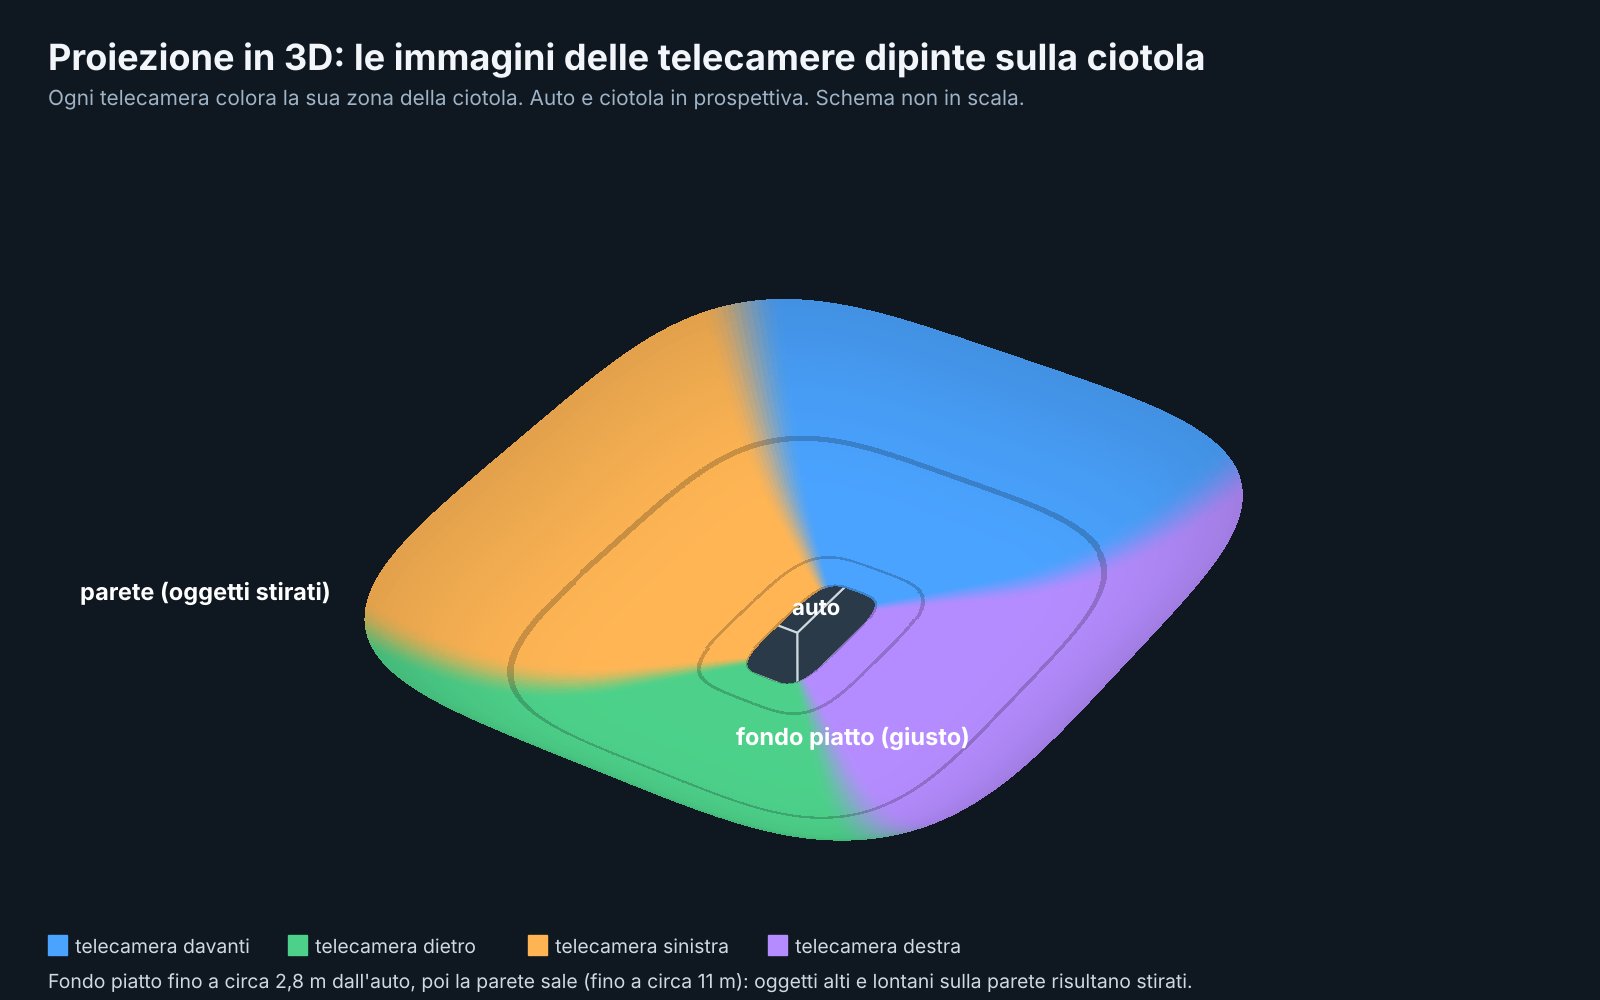
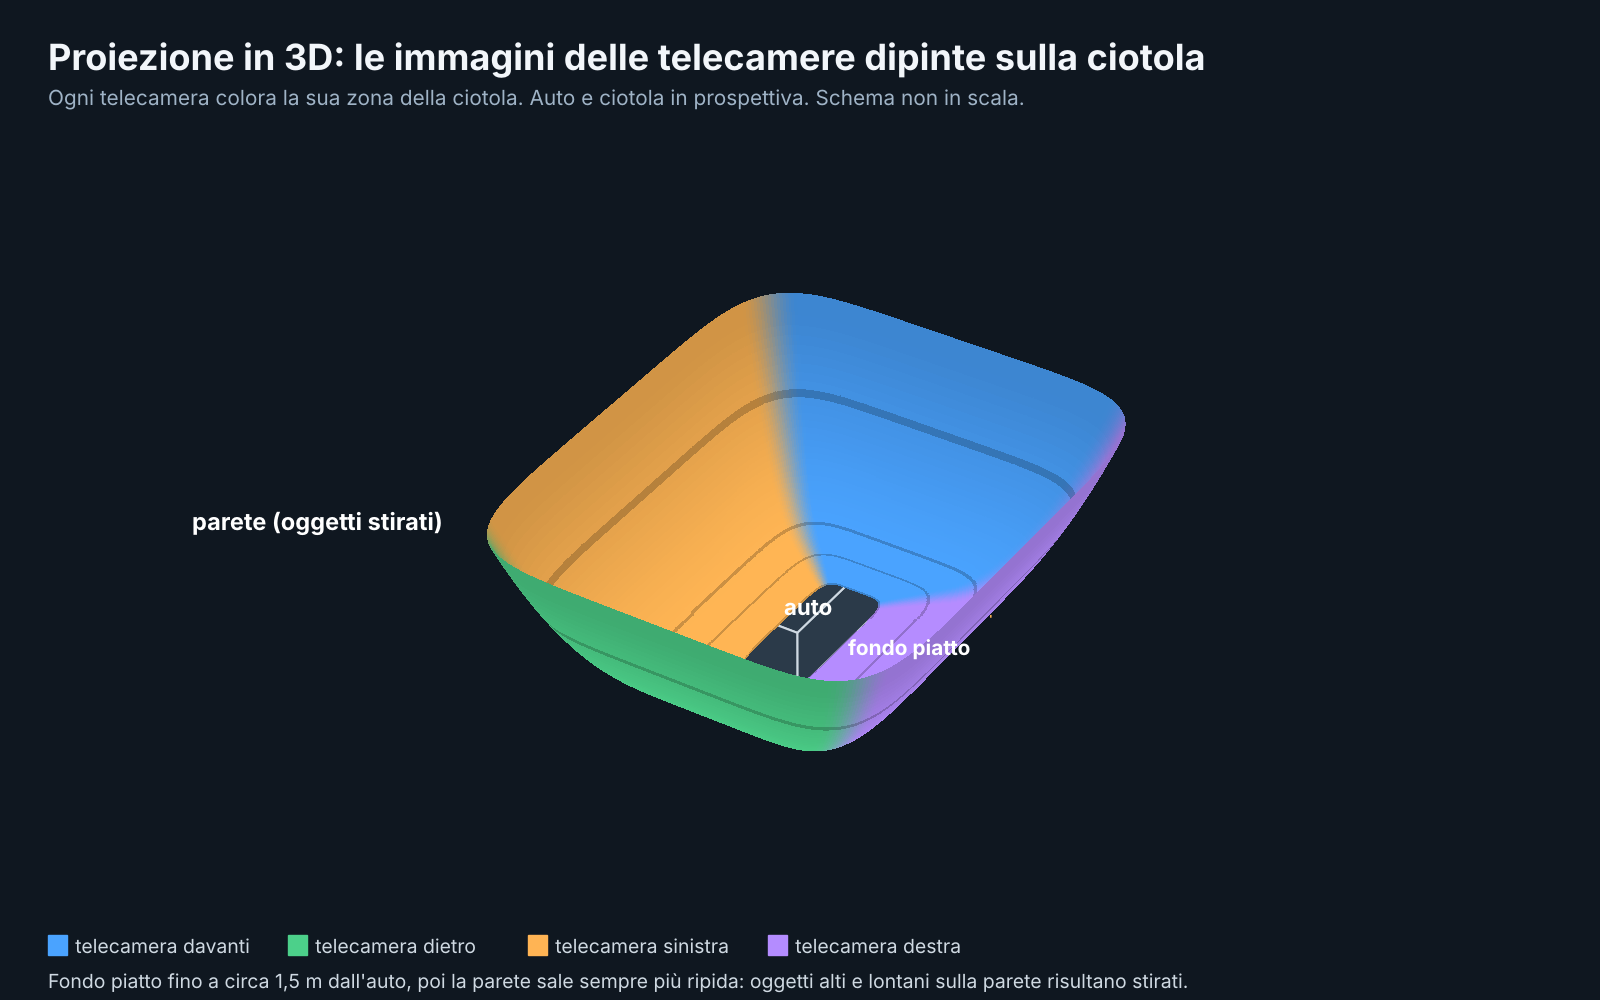
Proiezione 3D: correggo i valori della ciotola (fondo piatto circa 1,5 m, parete fissa) e i disegni
Claude-Session: https://claude.ai/code/session_01QBmbtZJGhpt5wMm3F8VGwL

Changed region(s): [[0.0312, 0.279, 0.7812, 0.837], [0.1562, 0.961, 0.75, 0.992]]

diff --git a/PROJECTION-3D.en.md b/PROJECTION-3D.en.md
@@ -7,9 +7,9 @@ This page explains, in simple terms, how Rivela 360 builds the 360° and 3D view
 ## The idea: the bowl
 The cameras don't see depth: each one produces only a flat image. To put them together, the app "paints" the images onto a **bowl**-shaped surface around the car:
 
-- **Flat floor** near the car, up to about **2.8 m** from the bodywork. Here the image is projected onto the ground, so distances and guide lines are correct.
-- **Rising wall** beyond that, up to about **11 m**. It shows the surroundings (buildings, cars, trees) instead of cutting them off.
-- The outline is a **rectangle with rounded corners**, not a circle or a sphere: the car is long and narrow, and a round shape would push the ground at the sides, where you park, too far away. Where the wall starts and how steep it is can be adjusted in the 3D view settings.
+- **Flat floor** near the car, up to about **1.5 m** from the bodywork. Here the image is projected onto the ground, so distances and guide lines are correct.
+- **Rising wall** beyond that, **getting steeper** with distance, up to about **11 m** from the car. It shows the surroundings (buildings, cars, trees) instead of cutting them off.
+- The outline is a **rectangle with rounded corners**, not a circle or a sphere: the car is long and narrow, and a round shape would push the ground at the sides, where you park, too far away. Where the wall starts and how steep it is are fixed values: they cannot be adjusted in the settings.
 - Each camera paints **its own** zone (front, rear, left, right). Where two zones meet, at the corners, the images blend into each other.
 
 ![Diagram: side section and top view of the bowl](immagini/proiezione-3d-schema.png)
